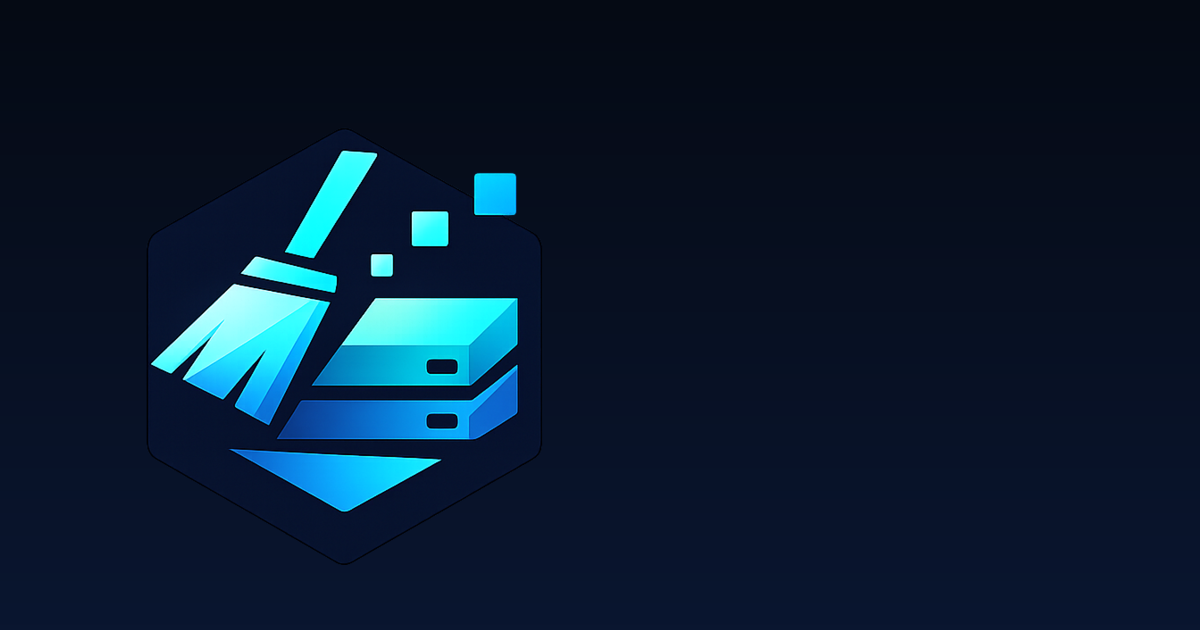
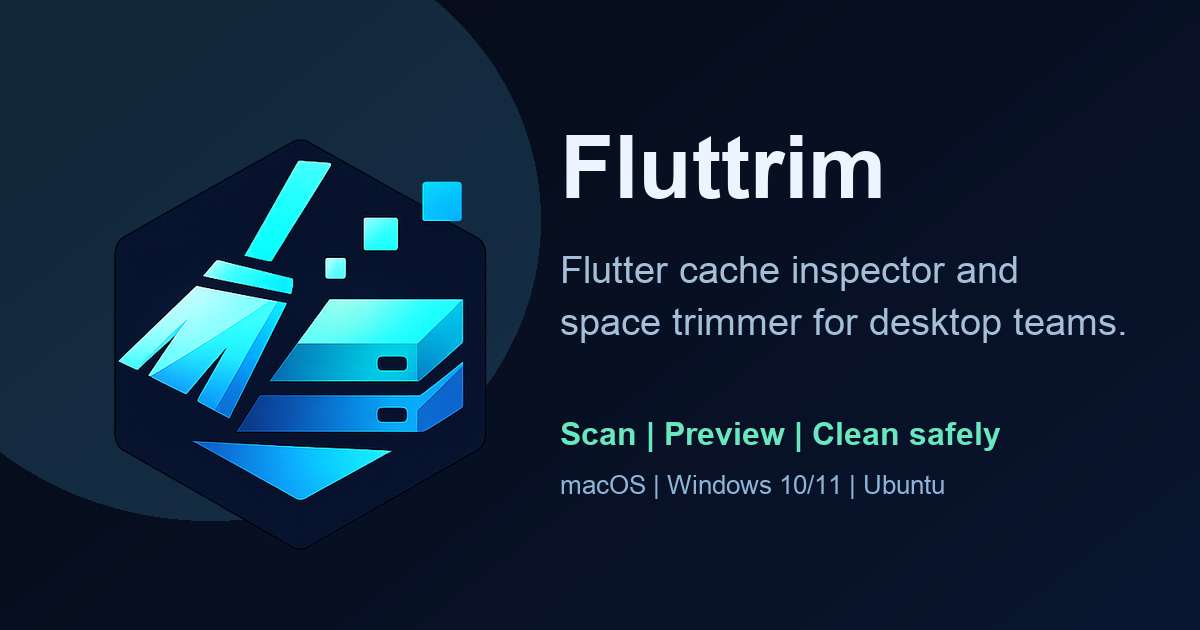
brand: update OG image with service intro text

Changed region(s): [[0.0, 0.0, 0.925, 0.8444], [0.4625, 0.6635, 0.8325, 0.7238], [0.4625, 0.754, 0.8017, 0.7841]]

diff --git a/apps/promo_web/index.html b/apps/promo_web/index.html
@@ -22,6 +22,10 @@
     <meta property="og:image:type" content="image/png" />
     <meta property="og:image:width" content="1200" />
     <meta property="og:image:height" content="630" />
+    <meta
+      property="og:image:alt"
+      content="Fluttrim brand image with service summary: Flutter cache inspector and space trimmer for desktop teams."
+    />
     <meta name="twitter:card" content="summary_large_image" />
     <meta name="twitter:title" content="Fluttrim | Flutter Cache Inspector" />
     <meta
@@ -29,6 +33,10 @@
       content="Fluttrim helps Flutter teams find and safely clean cache bloat across macOS, Windows, and Ubuntu."
     />
     <meta name="twitter:image" content="https://fluttrim.curogom.dev/assets/og-image.png" />
+    <meta
+      name="twitter:image:alt"
+      content="Fluttrim brand image with service summary: Flutter cache inspector and space trimmer for desktop teams."
+    />
     <link rel="manifest" href="./site.webmanifest" />
     <link rel="icon" type="image/x-icon" href="./assets/favicon.ico" />
     <link rel="icon" type="image/png" sizes="16x16" href="./assets/favicon-16.png" />
